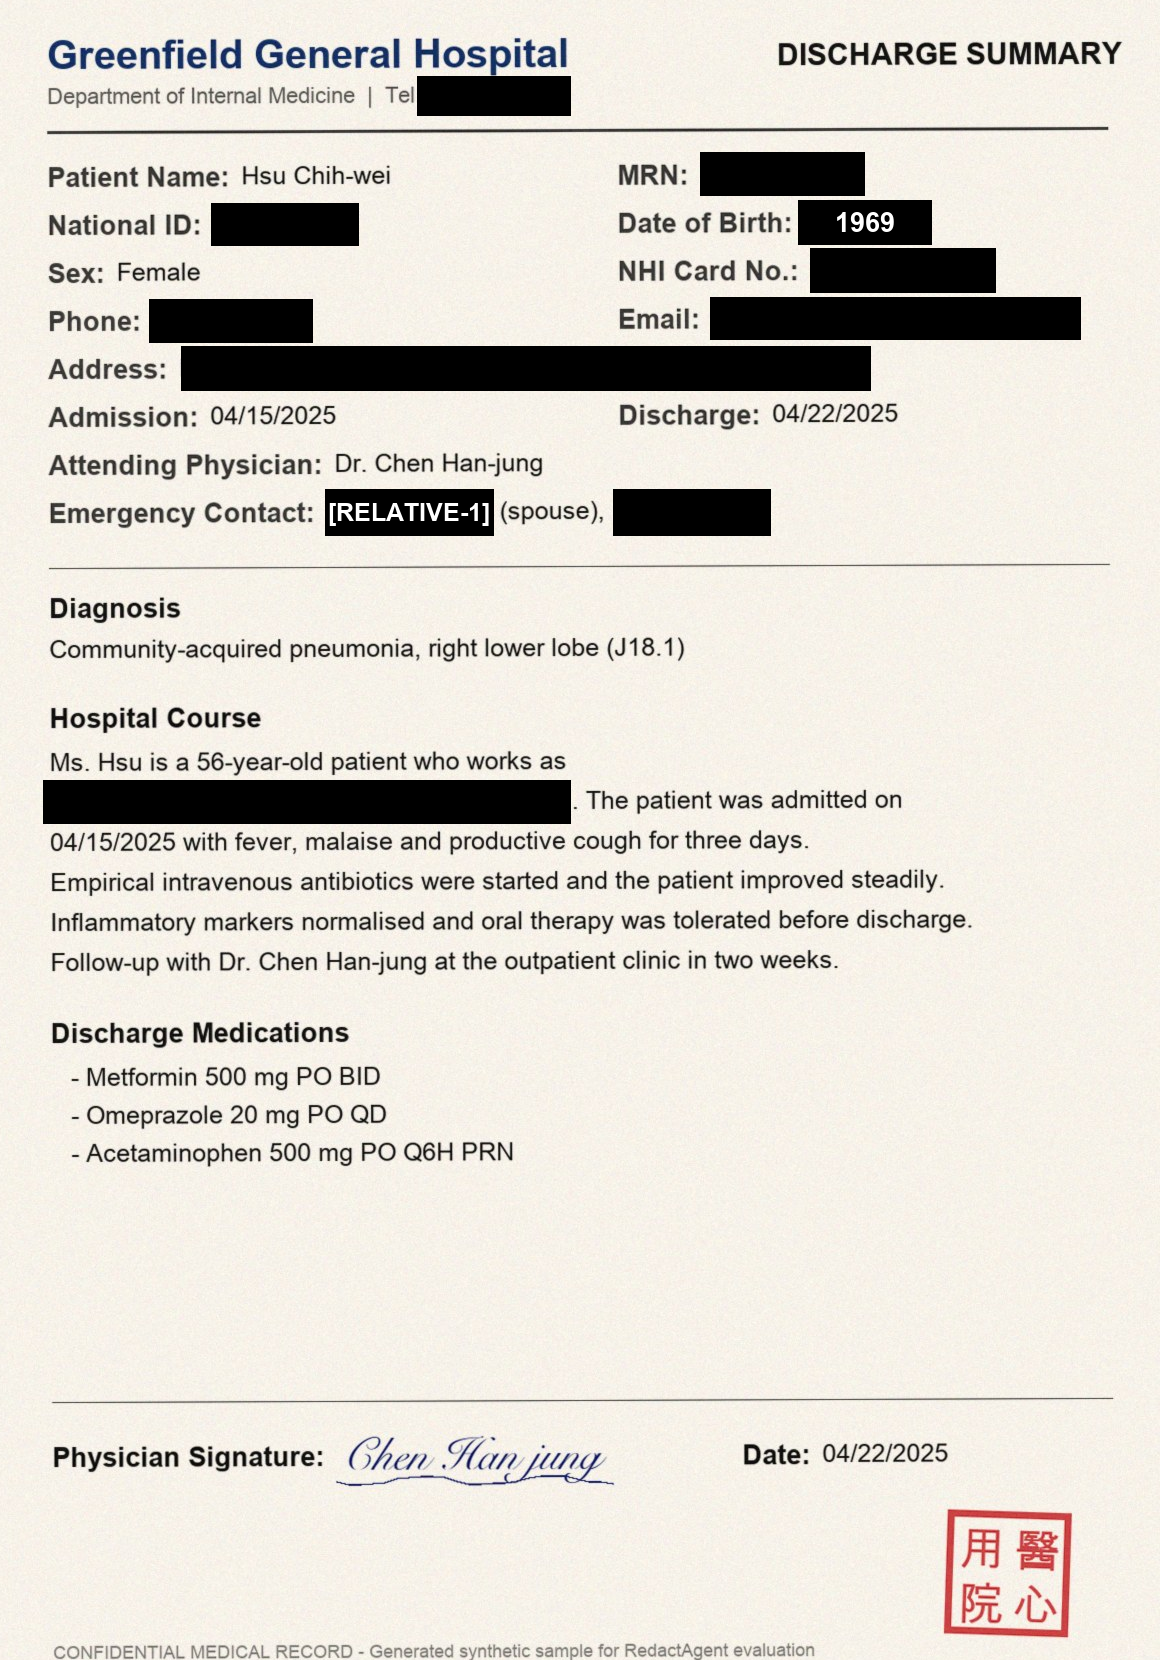
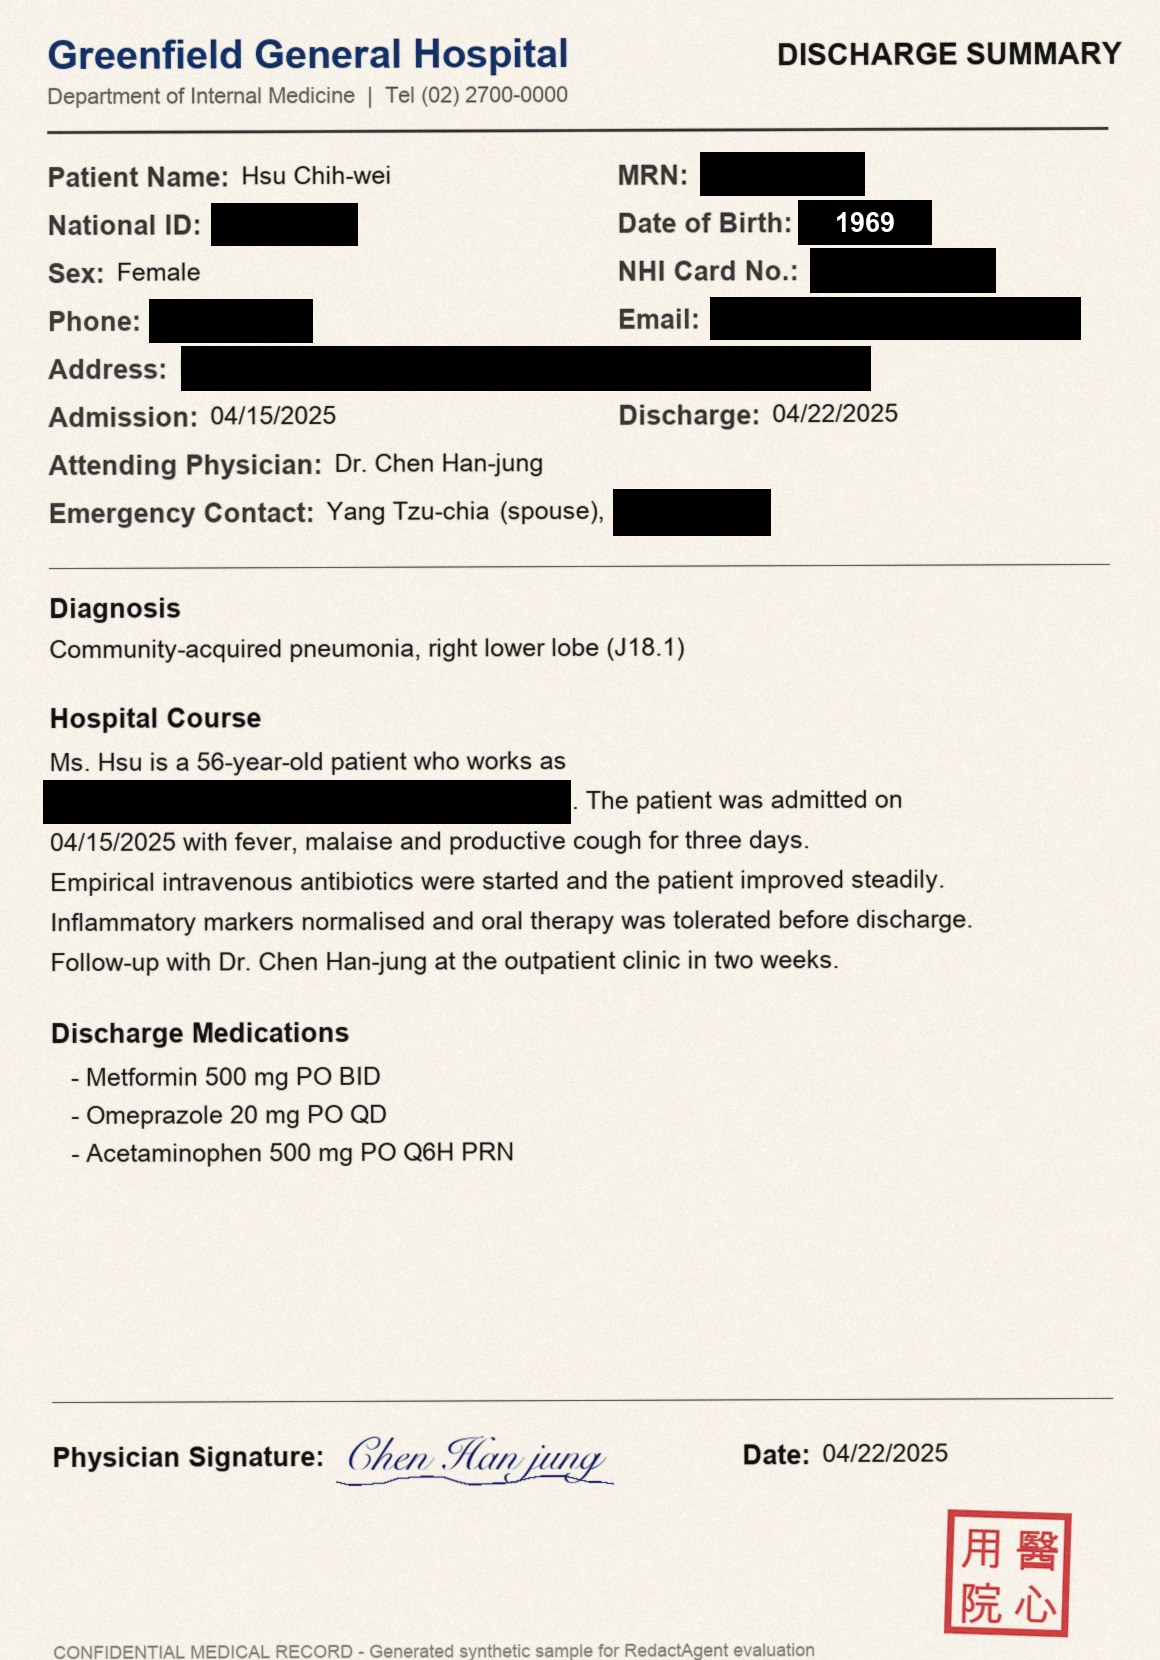
Loop detector: require three repeats of the period, not a fixed window (fires ~2x sooner)

Changed region(s): [[0.3414, 0.0307, 0.4966, 0.0922], [0.2793, 0.2765, 0.4345, 0.338]]

diff --git a/redactagent/llm_client.py b/redactagent/llm_client.py
@@ -21,14 +21,15 @@ from PIL import Image
 from . import config
 
 
-def is_looping(text: str, window: int = 1200, min_repeats: int = 3, max_period: int = 400) -> bool:
-    """True if the tail of `text` is (exactly) periodic: the last `window` characters consist of one chunk of at most
-    `max_period` characters repeated at least `min_repeats` times. Normal reasoning never repeats itself verbatim
+def is_looping(text: str, min_repeats: int = 3, min_span: int = 400, max_period: int = 400) -> bool:
+    """True if the tail of `text` is (exactly) periodic: one chunk of p <= `max_period` characters repeated at least
+    `min_repeats` times, covering at least `min_span` characters. Normal reasoning never repeats itself verbatim
     several times over; a degenerate decoding loop does (observed periods: 20-250 characters)."""
-    if len(text) < window:
-        return False
-    s = text[-window:]
-    for p in range(4, min(max_period, window // min_repeats) + 1):
+    for p in range(4, max_period + 1):
+        n = max(min_repeats * p, min_span)
+        if len(text) < n:
+            break
+        s = text[-n:]
         if s[p:] == s[:-p]:
             return True
     return False

diff --git a/tests/test_core.py b/tests/test_core.py
@@ -186,9 +186,8 @@ def test_loop_detector():
              "Also the role of the attending physician is professional. Also the role of the emergency contact is "
              "family. Also the role of the lighthouse keeper is quasi identifier. ")  # observed on vLLM XPU, 250 chars
     assert is_looping("We need to list PII. " + cycle * 5)
-    normal = ("We need to find names, IDs and dates. Line 3 has the patient name Wang Xiao-ming. Line 4 is the national "
-              "ID A123456789. Line 7 shows the admission date 2025-04-15 and line 8 the discharge date. The physician "
-              "Dr. Chen signs on line 30; that is staff. The address on line 6 is in Taipei. Phone on line 5. ") * 3
+    normal = "We need to find names, IDs and dates. " + " ".join(
+        f"Line {i} has item {i * 7 % 13} of type {['name', 'ID', 'date', 'phone'][i % 4]}; the role is subject." for i in range(60))
     assert not is_looping(normal)
     assert not is_looping("short " * 10)
 
